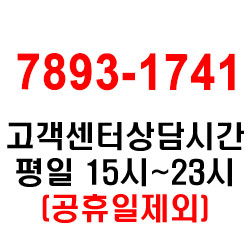
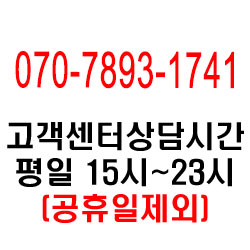
update wing picture

Changed region(s): [[0.056, 0.196, 0.952, 0.364]]

diff --git a/src/components/header/components/big-header/big-header.html b/src/components/header/components/big-header/big-header.html
@@ -7,7 +7,7 @@
           <img *ngIf=" ! app.firstVisit " class="" style="height: 46px;" src="{{ app.logoUrl }}">
 
           <ng-container *ngIf=" app.firstVisit ">
-            <img class="" style="height: 46px;" src="assets/images/logo/logo24.png?version=0.0.5" placement="bottom"
+            <img class="" style="height: 46px;" src="assets/images/logo/logo24.png?version=0.1.1" placement="bottom"
                  [ngbPopover]="popLogo" #pLogo="ngbPopover"
                  (click)="closeAllHelp()">
             <ng-template #popLogo>

diff --git a/src/index.html b/src/index.html
@@ -121,7 +121,7 @@
       <div class="shell-menu">
         <table cellpadding=0 cellspacing=0>
           <tr valign=top>
-            <td><span class="shell-logo"><img src="./assets/images/logo/logo24.png?version=0.0.5"></span></td>
+            <td><span class="shell-logo"><img src="./assets/images/logo/logo24.png?version=0.1.2"></span></td>
             <td align="center">
               <ul>
                 <li>영어선생님</li>

diff --git a/src/components/aside/aside.html b/src/components/aside/aside.html
@@ -20,7 +20,7 @@
           <div class="d-inline-block"><img src="assets/images/wing/faq.jpg"></div>
         </li>
         <li>
-          <img src="assets/images/wing/contact.jpg?version=0.0.5">
+          <img src="assets/images/wing/contact.jpg?version=0.1.1">
         </li>
     </ul>
 </div>
